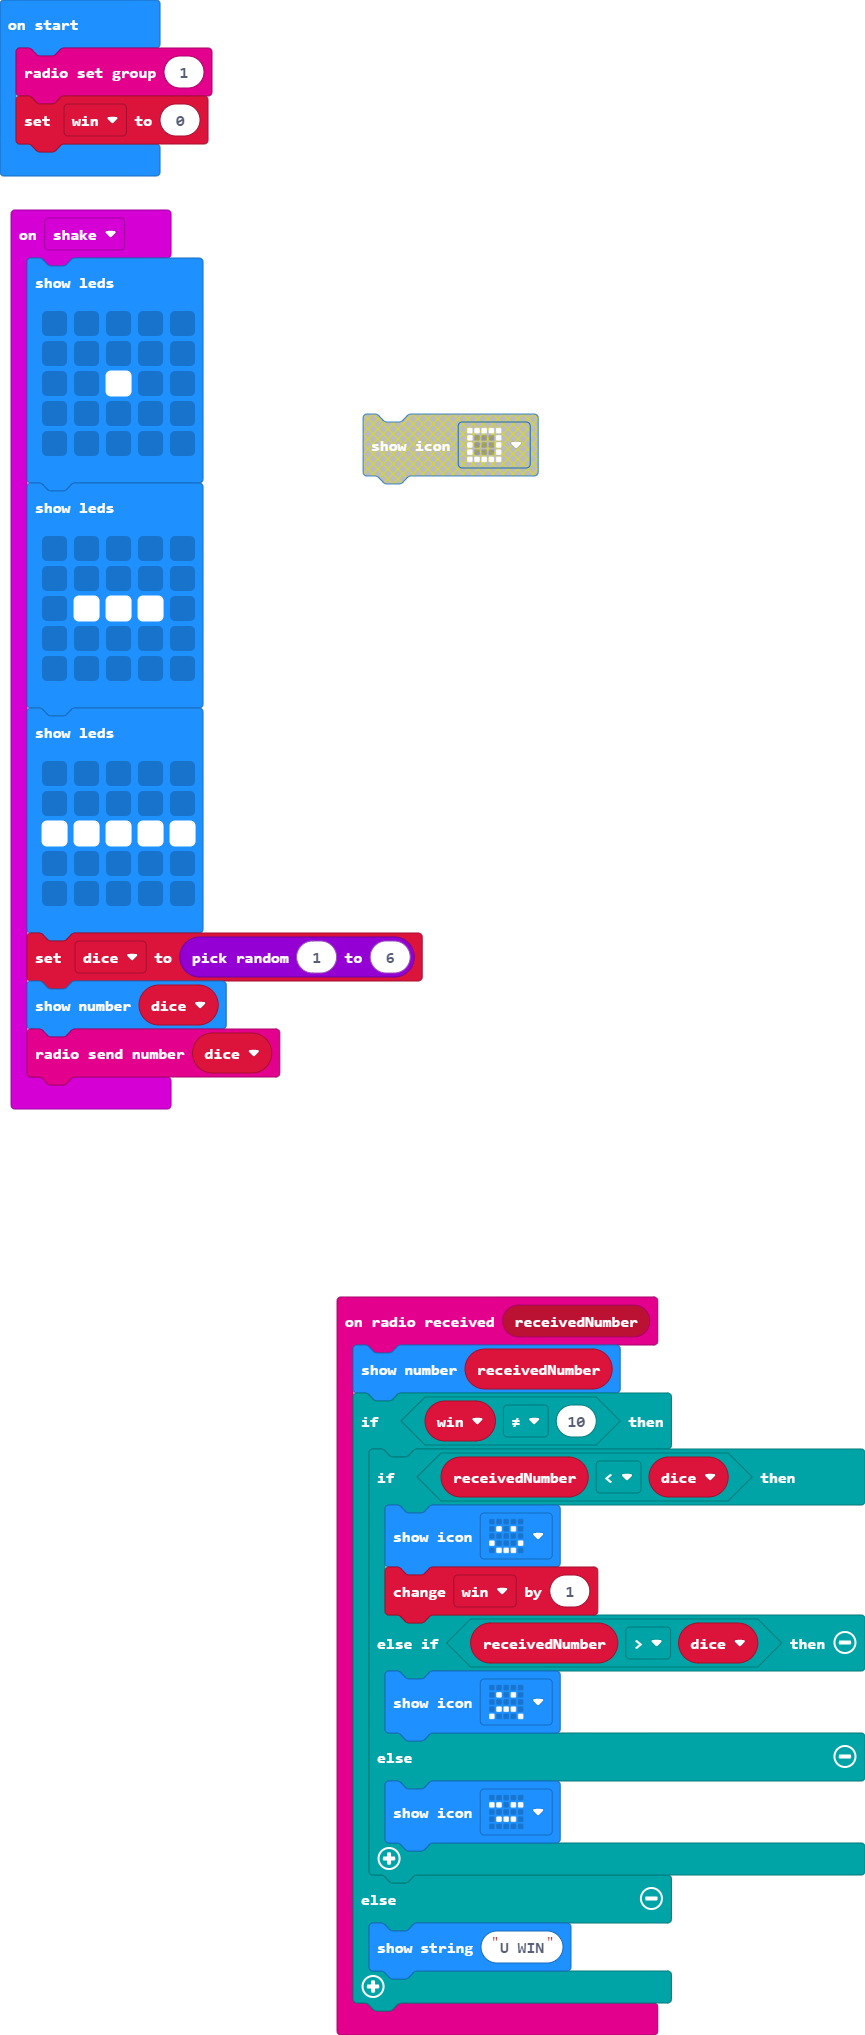
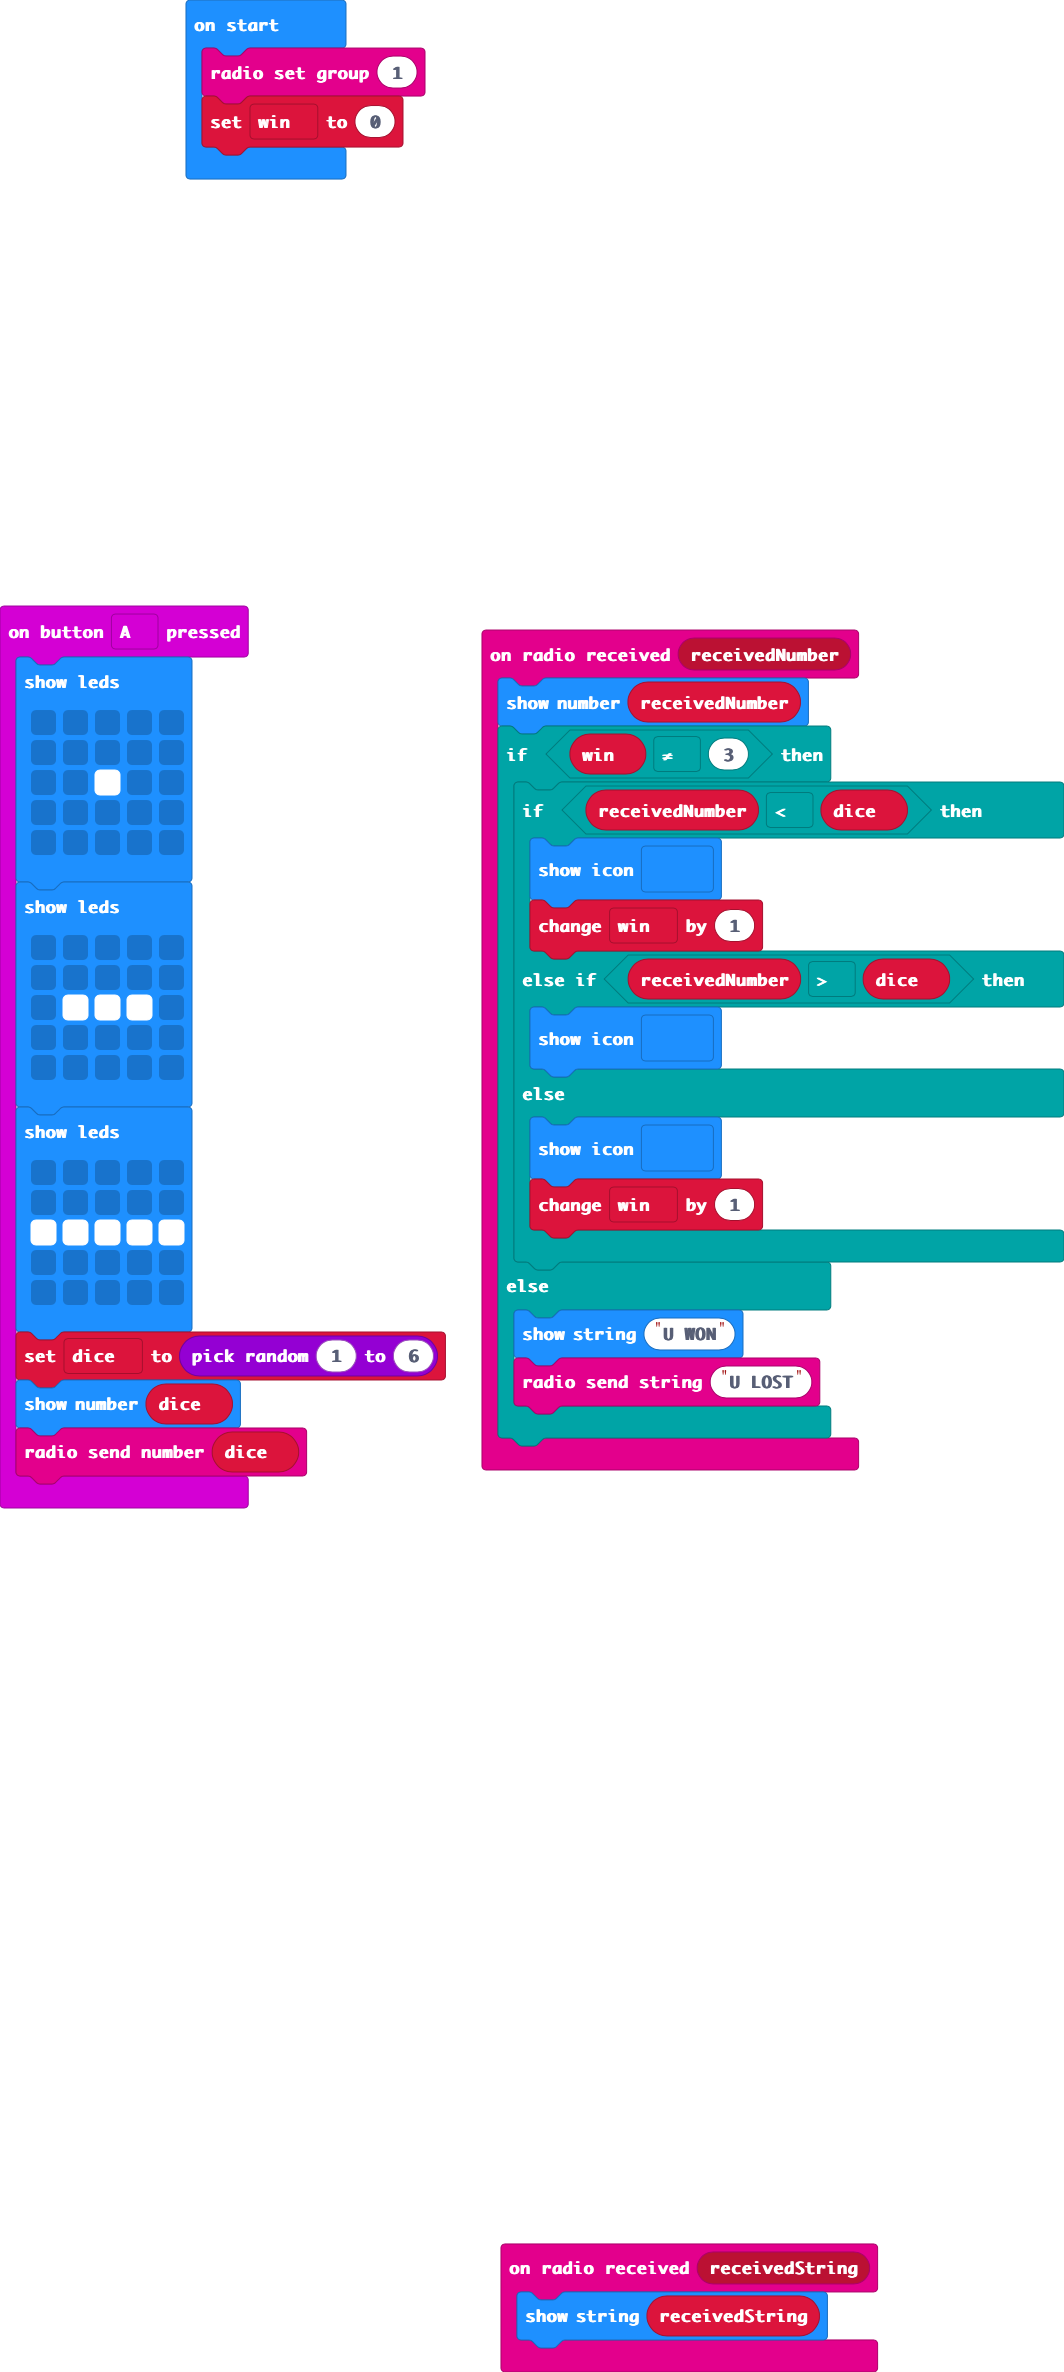
Update main.blocks, main.ts

diff --git a/main.ts b/main.ts
@@ -1,6 +1,6 @@
 radio.onReceivedNumber(function (receivedNumber) {
     basic.showNumber(receivedNumber)
-    if (win != 10) {
+    if (win != 3) {
         if (receivedNumber < dice) {
             basic.showIcon(IconNames.Happy)
             win += 1
@@ -8,12 +8,14 @@ radio.onReceivedNumber(function (receivedNumber) {
             basic.showIcon(IconNames.Sad)
         } else {
             basic.showIcon(IconNames.Asleep)
+            win += 1
         }
     } else {
-        basic.showString("U WIN")
+        basic.showString("U WON")
+        radio.sendString("U LOST")
     }
 })
-input.onGesture(Gesture.Shake, function () {
+input.onButtonPressed(Button.A, function () {
     basic.showLeds(`
         . . . . .
         . . . . .
@@ -38,6 +40,9 @@ input.onGesture(Gesture.Shake, function () {
     dice = randint(1, 6)
     basic.showNumber(dice)
     radio.sendNumber(dice)
+})
+radio.onReceivedString(function (receivedString) {
+    basic.showString(receivedString)
 })
 let dice = 0
 let win = 0
